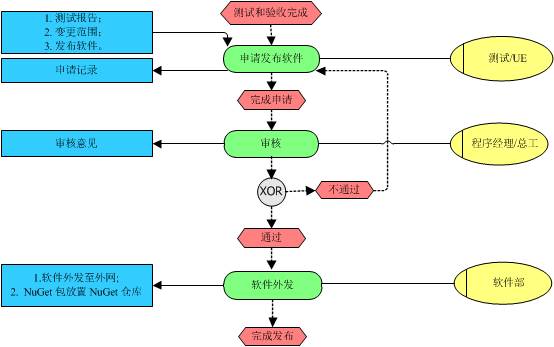
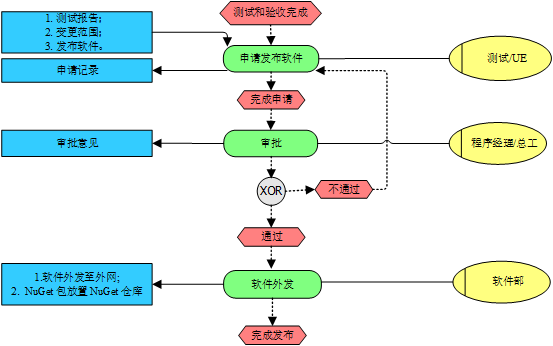
deploy: weihong-phoenix/docfx_build@0eae1b313ef9a744f80b22e75573c077e6925561

diff --git a/doc/研发管理制度规范/软件迭代发布流程和规范.html b/doc/研发管理制度规范/软件迭代发布流程和规范.html
@@ -105,7 +105,7 @@
 <tr>
 <td>R2</td>
 <td>R1</td>
-<td>1、更新主要活动说明，去除工具使用的说明；<br>2、增加 4.3 规范；<br></td>
+<td>1、更新主要活动说明，去除工具使用的说明；活动“审核”修改为“审批”<br>2、增加 4.3 规范。<br></td>
 <td>余晓霞</td>
 <td>2023.3.17</td>
 </tr>
@@ -133,12 +133,12 @@
 <p>（1）测试报告；</p>
 <p>（2）变更范围；</p>
 <p>（2）发布软件。</p>
-<h4 id="422-审核">4.2.2 审核</h4>
-<p>审核活动主要是各相关方评估软件是否可外发，该活动属于一个流程，可以由多个审核节点组成也可以有单个审核节点组成，审核总体要求如下：</p>
+<h4 id="422-审批">4.2.2 审批</h4>
+<p>审批活动主要是各相关方根据职责要求对相关内容进行审批，确保软件达到准出标准。该活动属于一个流程，可以由单个节点或多个节点组成，审批总体要求如下：</p>
 <ul>
-<li>审核人中必须包含产品总工或程序经理。</li>
-<li>审核内容：根据各个团队的职责划分决定。</li>
-<li>审核不通过必须注明不通过的原因。</li>
+<li>审批人中必须包含产品总工或程序经理。</li>
+<li>须审核申请单输入内容是否与实际发布一致。</li>
+<li>审批不通过必须注明不通过的原因。</li>
 </ul>
 <h4 id="423-软件外发">4.2.3 软件外发</h4>
 <p>该活动在审核通过之后触发，发布软件。外发方式如下所示：</p>
@@ -153,7 +153,7 @@
 <li>当客户或销售急需软件或紧急修复严重缺陷时，审批人无法及时审批；</li>
 <li>发布通道出现故障。</li>
 </ul>
-<p>若必须通过外发申请通道出去软件， 请务必事后报备软件部及部门经理。</p>
+<p>若必须通过 SDC 审批申请通道外发软件， 请务必事后报备软件部及部门经理。</p>
 <h2 id="5-迭代软件注销流程">5 迭代软件注销流程</h2>
 <h3 id="51-流程图">5.1 流程图</h3>
 <p><img src="images/image-publish-flow2.png" alt="image-publish-flow2"></p>
@@ -162,11 +162,11 @@
 <p>已外发的软件，当客户反馈问题或内部发现缺陷时，经部门内部评估需要对其注销，可发起注销申请。</p>
 <p><strong>申请人</strong>：产品经理、开发。</p>
 <p><strong>输入</strong>：须注明注销原因、注销的软件信息。</p>
-<h4 id="522-审核">5.2.2 审核</h4>
+<h4 id="522-审批">5.2.2 审批</h4>
 <ul>
-<li>审核人必须包含：总工、程序经理。</li>
-<li>审核通过之后，进入处理注销软件节点，通知相关人员进行处理。</li>
-<li>审核不通过，须填注明不通过原因。</li>
+<li>审批人必须包含：总工、程序经理。</li>
+<li>审批通过之后，进入处理注销软件节点，通知相关人员进行处理。</li>
+<li>审批不通过，须填注明不通过原因。</li>
 </ul>
 <h4 id="523-注销软件">5.2.3 注销软件</h4>
 <ul>
